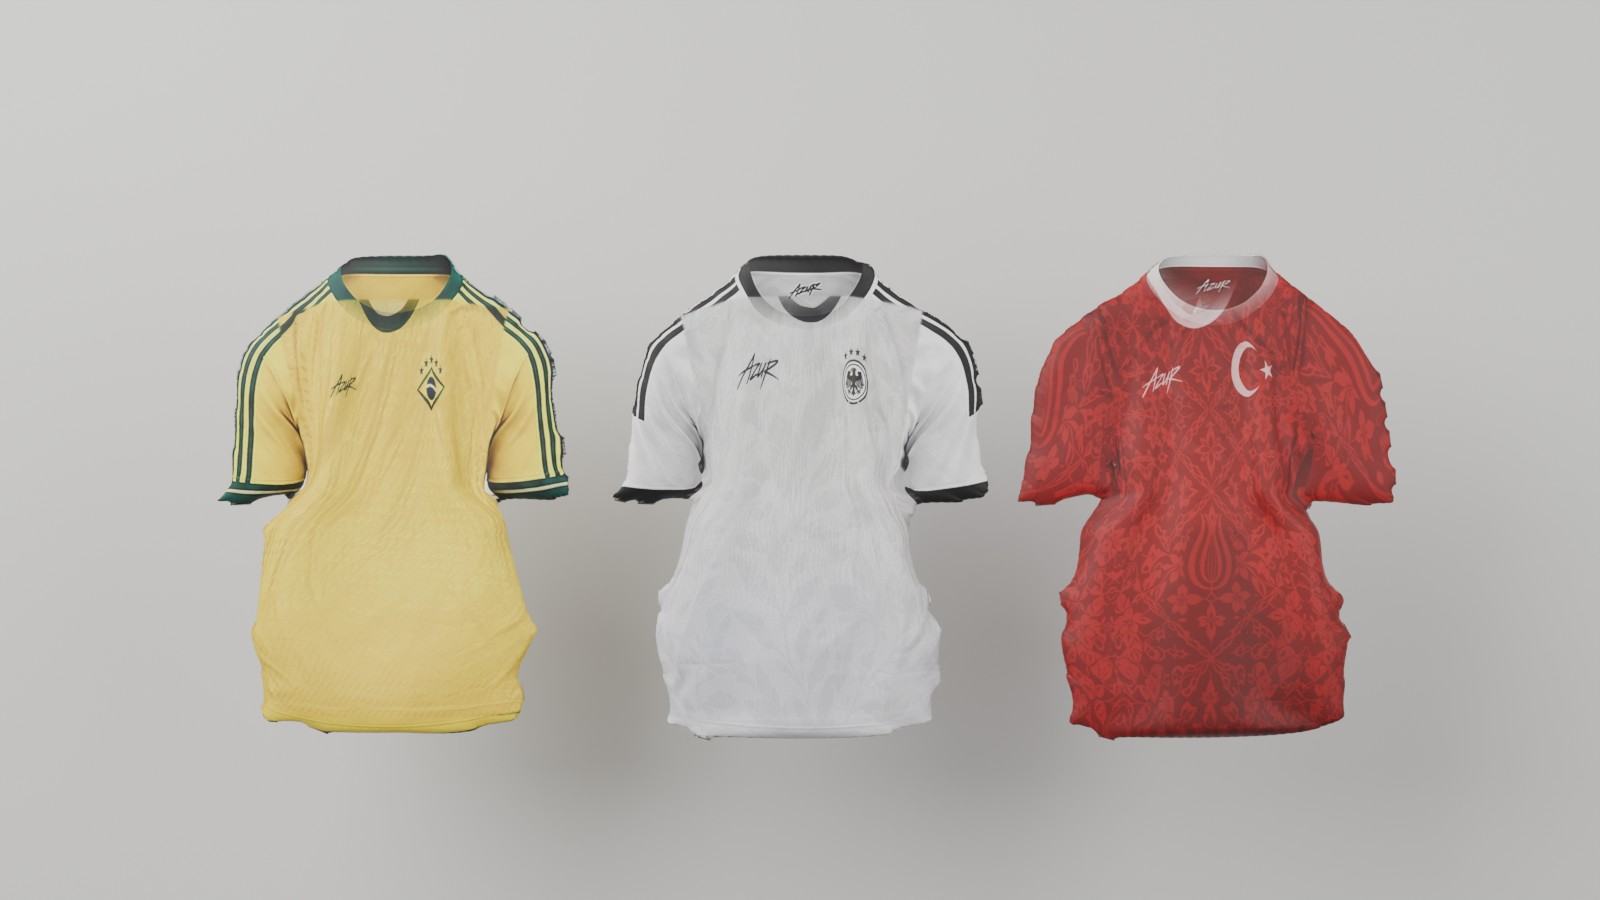
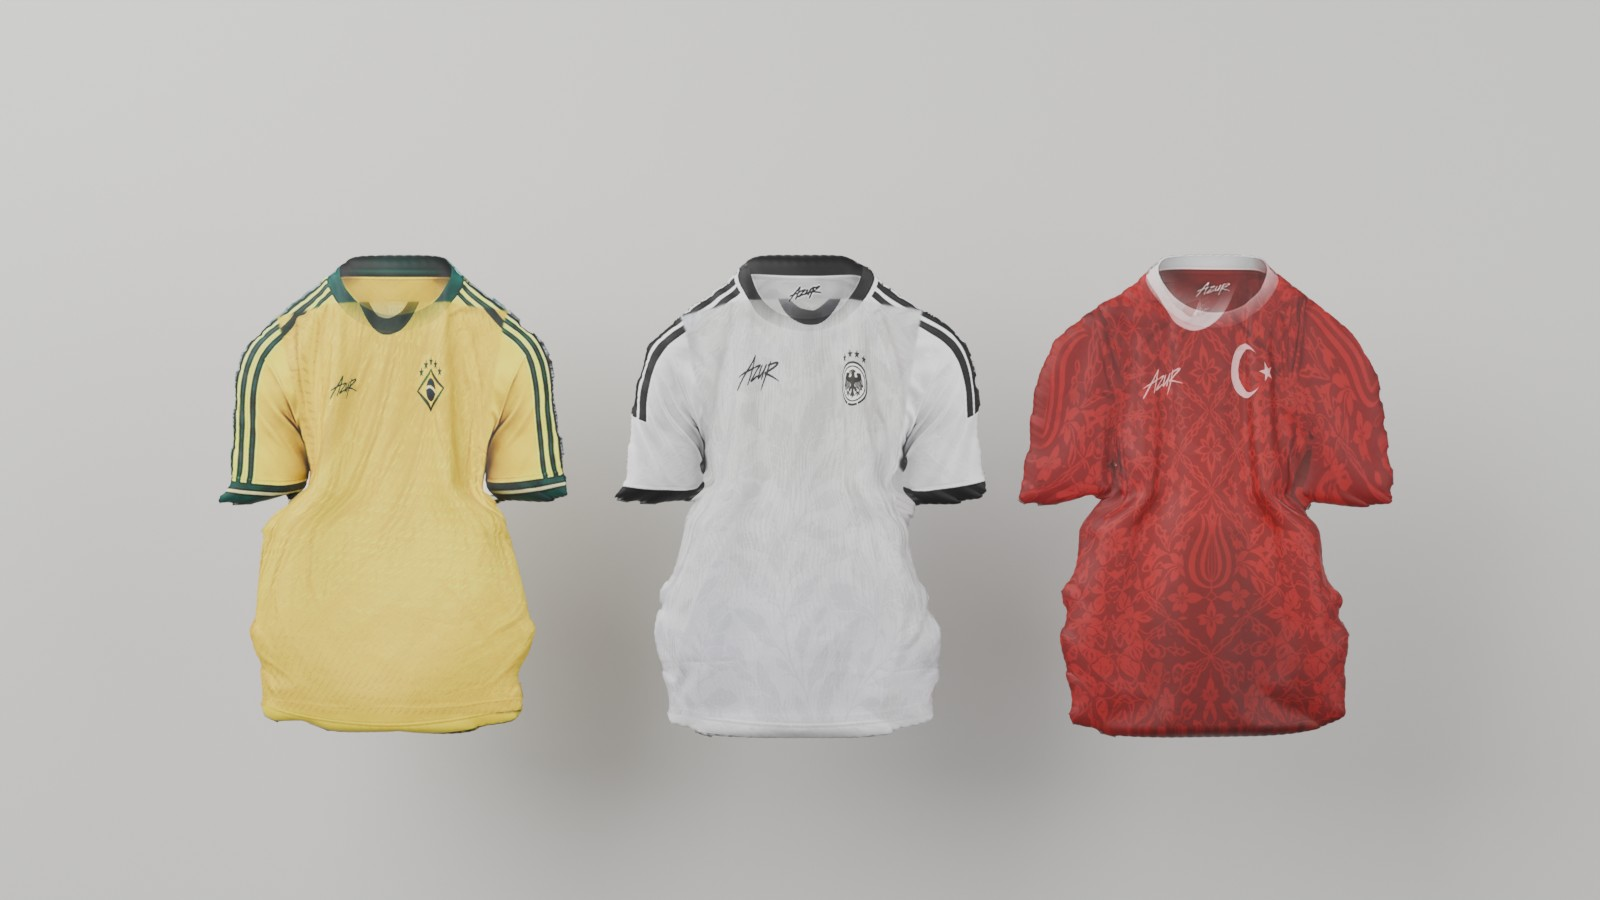
Runde 22: Trikots mit den Falten wie in der r22-1-Vorschau, nur die Seiten an der Taille gerade; PC-Auftrag r22-4
Claude-Session: https://claude.ai/code/session_01R3wWJYBEPWenzksQTM89FE

diff --git a/azur/scene/garment.py b/azur/scene/garment.py
@@ -344,9 +344,6 @@ def jersey(name, front_path, back_path, knit_normal=None, hanger_mat=None, h=0.7
     got = frozen(name, front_path, back_path, knit_normal, hanger_mat)
     if got:
         o, hg = got
-        # the small crumples softened a little (the outline stays); the larger folds remain, as the owner wants
-        sm = o.modifiers.new('calm', 'LAPLACIANSMOOTH'); sm.iterations = 3; sm.lambda_factor = 0.6
-        sm.lambda_border = 0.0; sm.use_volume_preserve = True; sm.use_normalized = True
         sub = o.modifiers.new('sub', 'SUBSURF'); sub.levels = 1; sub.render_levels = 2
         sol = o.modifiers.new('sol', 'SOLIDIFY'); sol.thickness = 0.0015; sol.offset = 1
         return o, hg
